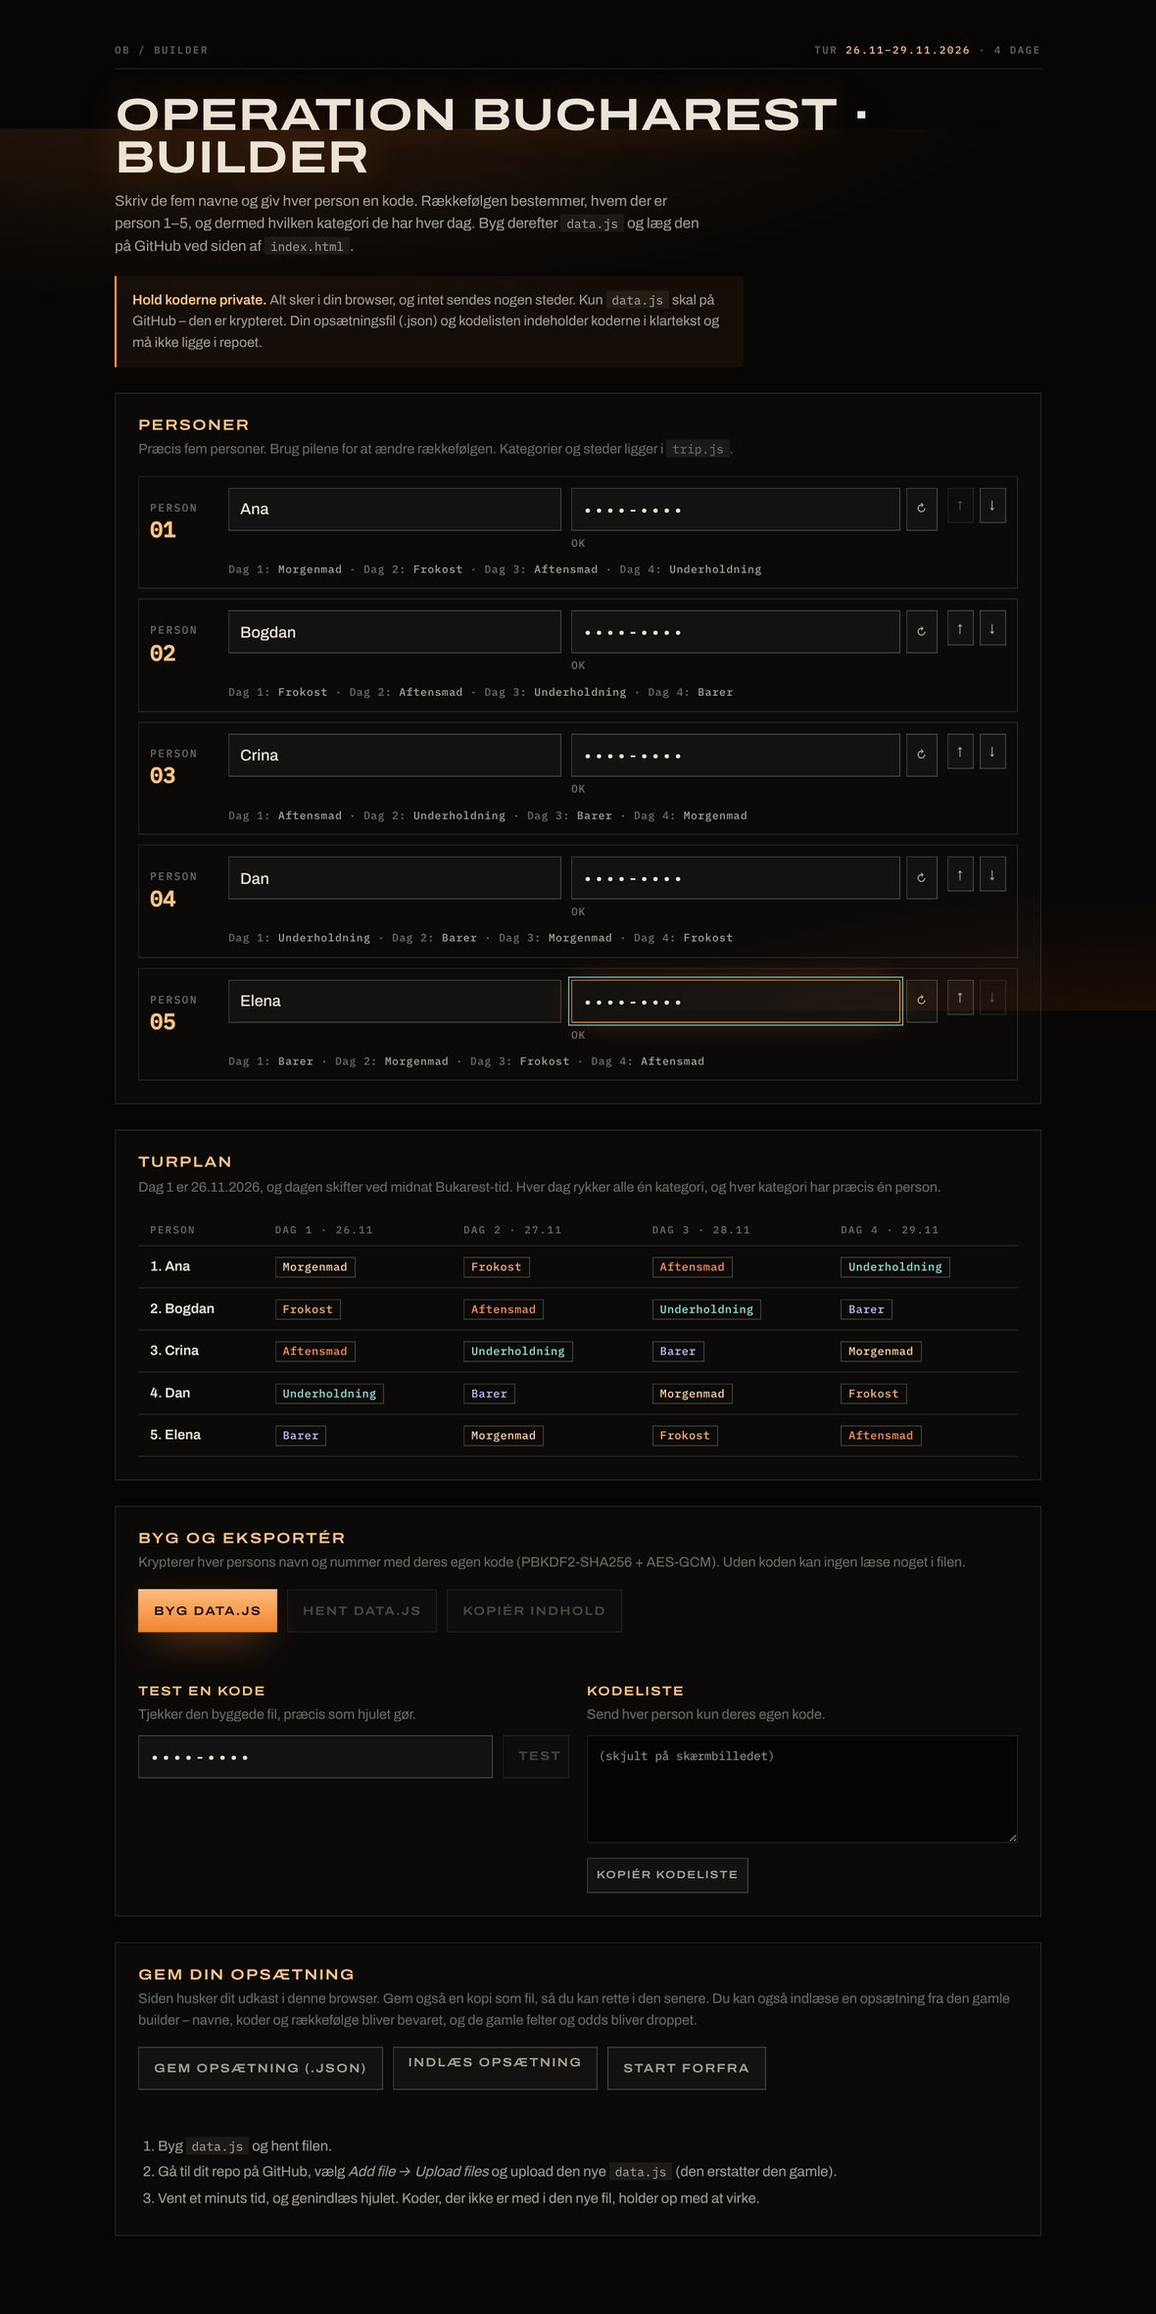
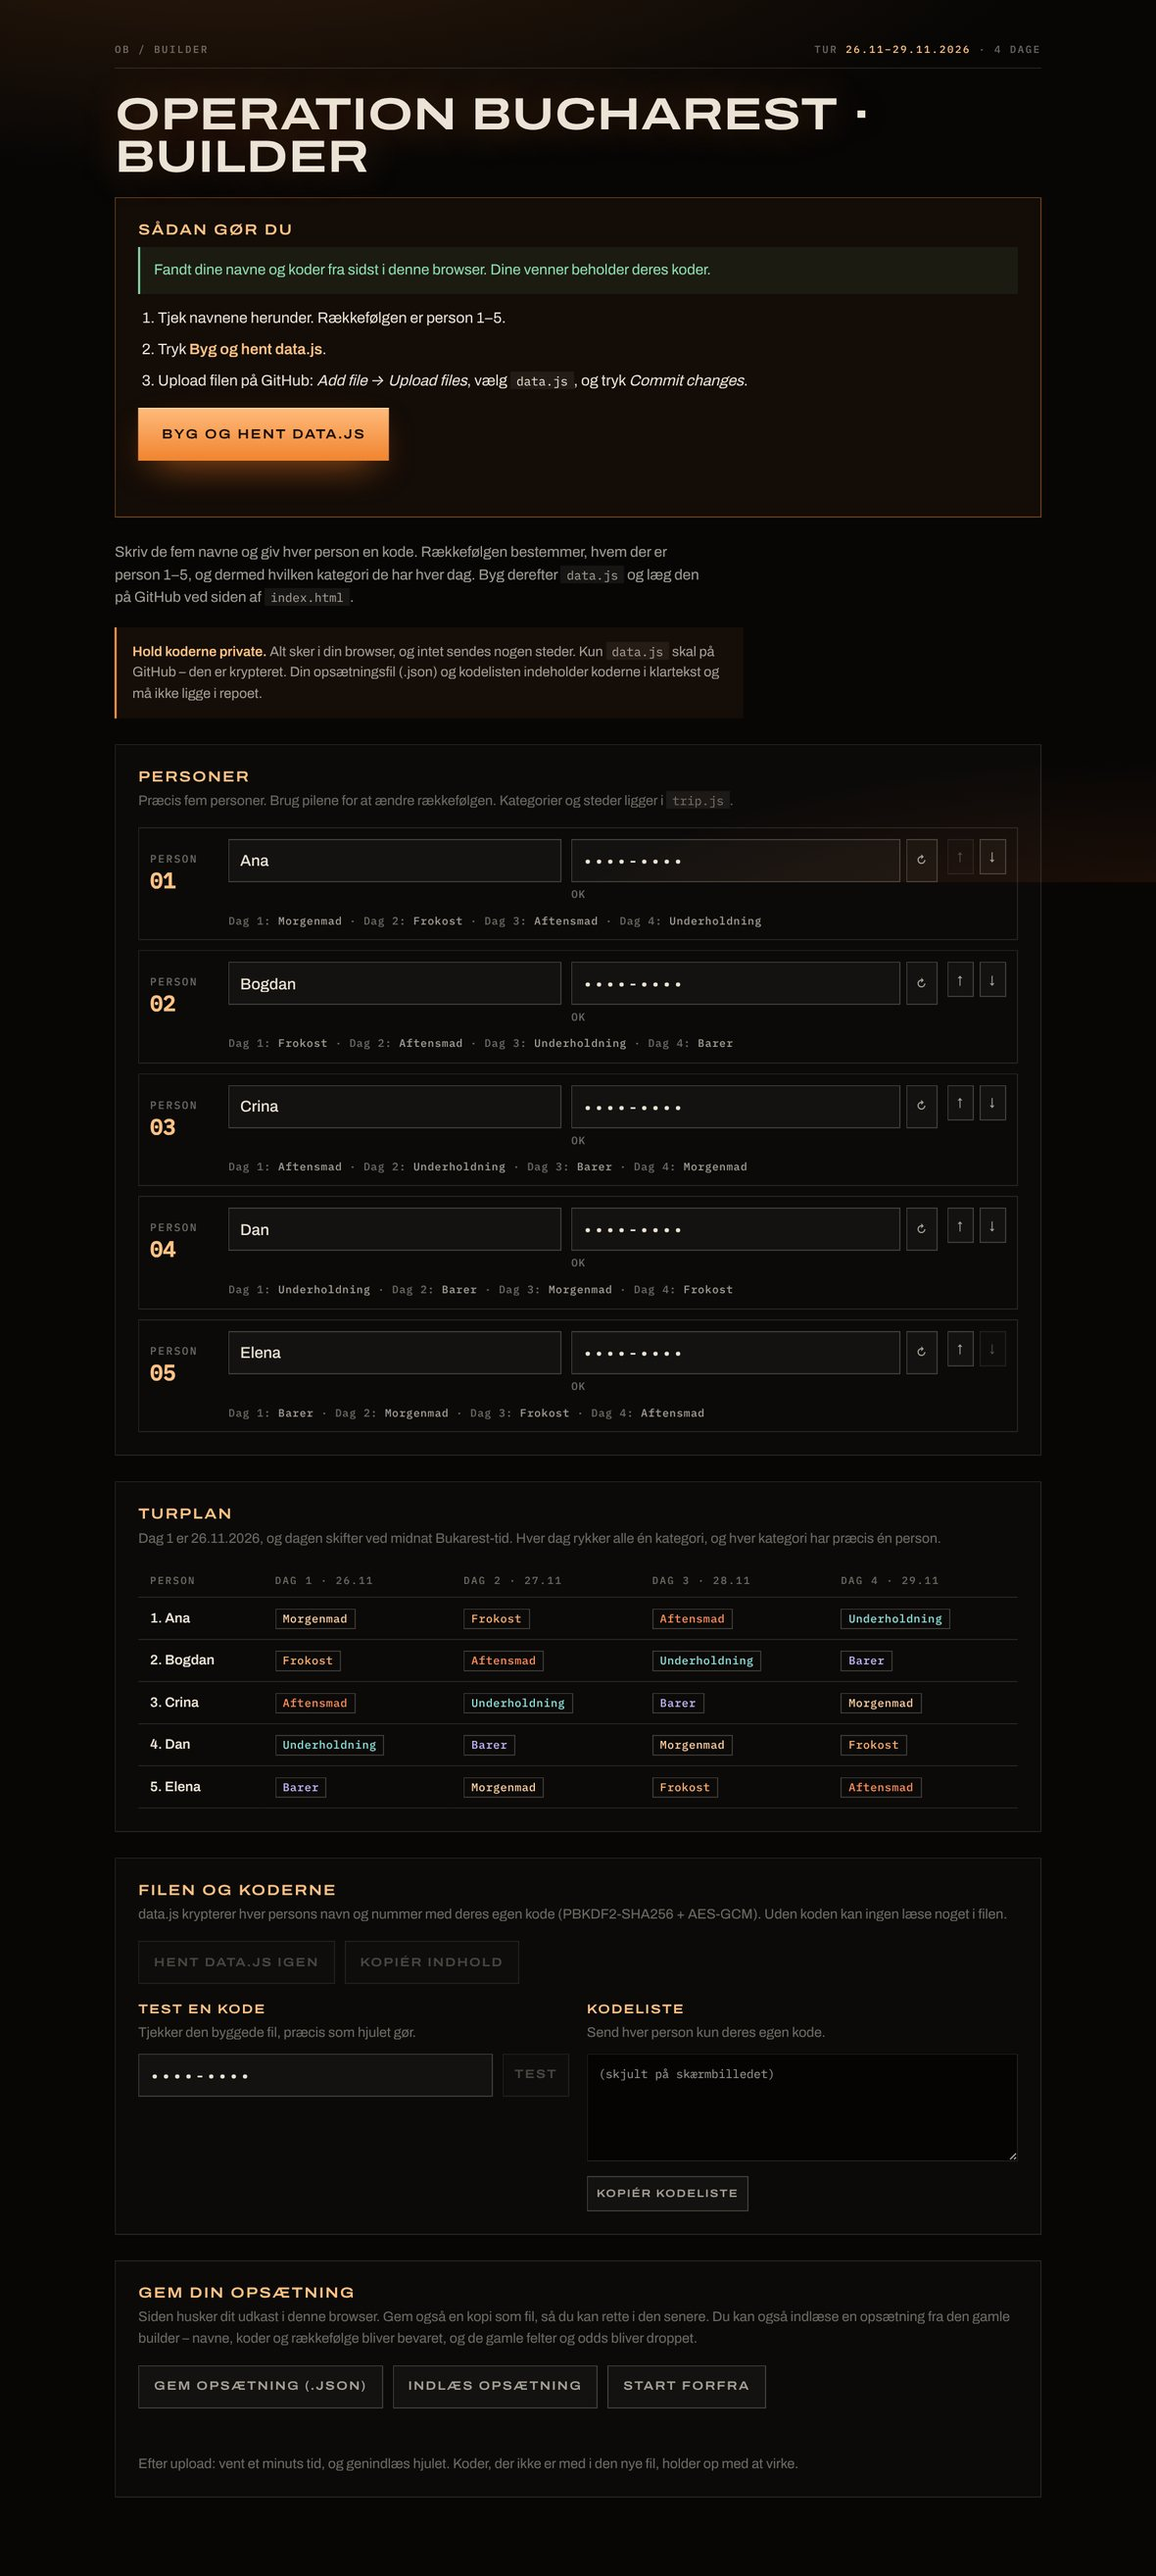
Builder: one-click "Byg og hent data.js" and a clear start box
- New "Sådan gør du" box at the top with three steps
- Says whether names and codes from last time were found in this browser;
  if not, a red warning, and the build button needs a second press so
  nobody gives everyone new codes by accident
- The build button now builds and downloads data.js in one go
- Updated builder screenshot

Claude-Session: https://claude.ai/code/session_01LwMVCugT5aRpNgCrjQDK6n

diff --git a/builder.html b/builder.html
@@ -89,14 +89,37 @@
     ol.steps li { margin: 4px 0; }
     code { background: rgba(235,227,213,.07); padding: 1px 6px; font: 12.5px var(--f-mono); }
     .hidden { display: none; }
+    .start { background: rgba(255,140,50,.05); box-shadow: inset 0 0 0 1px rgba(255,154,61,.45); }
+    .start .steps { font-size: 15.5px; color: var(--bone); }
+    .start .steps li { margin: 8px 0; }
+    .start .steps strong { color: var(--amber-hi); font-weight: 600; }
+    .btn.big { min-height: 54px; padding: 12px 24px; font-size: 13.5px; }
+    #startStatus { margin: 8px 0 4px; padding: 12px 14px; font-size: 15px; }
+    #startStatus.ok { background: rgba(143,224,176,.07); border-left: 2px solid var(--ok); }
+    #startStatus.bad { background: rgba(255,127,97,.08); border-left: 2px solid var(--err); color: var(--bone); }
+    #startStatus.warn { background: rgba(255,154,61,.08); border-left: 2px solid var(--amber); color: var(--bone); }
+    #startStatus strong { color: var(--err); }
   </style>
 </head>
 <body>
 <div class="wrap">
   <div class="bar"><span>OB / Builder</span><span id="tripBar"></span></div>
   <h1>Operation Bucharest · Builder</h1>
-  <p class="lead">Skriv de fem navne og giv hver person en kode. Rækkefølgen bestemmer, hvem der er person 1–5, og dermed hvilken kategori de har hver dag. Byg derefter <code>data.js</code> og læg den på GitHub ved siden af <code>index.html</code>.</p>
+  <section class="card start" id="startCard" style="margin-top:18px">
+    <h2>Sådan gør du</h2>
+    <p class="status" id="startStatus" role="status"></p>
+    <ol class="steps">
+      <li>Tjek navnene herunder. Rækkefølgen er person 1–5.</li>
+      <li>Tryk <strong>Byg og hent data.js</strong>.</li>
+      <li>Upload filen på GitHub: <em>Add file → Upload files</em>, vælg <code>data.js</code>, og tryk <em>Commit changes</em>.</li>
+    </ol>
+    <div class="row" style="margin-top:16px"><button class="btn primary big" id="buildBtn">Byg og hent data.js</button></div>
+    <p class="status" id="buildStatus" role="status"></p>
+  </section>
+
+  <p class="lead" style="margin-top:24px">Skriv de fem navne og giv hver person en kode. Rækkefølgen bestemmer, hvem der er person 1–5, og dermed hvilken kategori de har hver dag. Byg derefter <code>data.js</code> og læg den på GitHub ved siden af <code>index.html</code>.</p>
   <p class="note"><strong>Hold koderne private.</strong> Alt sker i din browser, og intet sendes nogen steder. Kun <code>data.js</code> skal på GitHub – den er krypteret. Din opsætningsfil (.json) og kodelisten indeholder koderne i klartekst og må ikke ligge i repoet.</p>
+
 
   <section class="card">
     <h2>Personer</h2>
@@ -111,14 +134,12 @@
   </section>
 
   <section class="card">
-    <h2>Byg og eksportér</h2>
-    <p class="sub">Krypterer hver persons navn og nummer med deres egen kode (PBKDF2-SHA256 + AES-GCM). Uden koden kan ingen læse noget i filen.</p>
+    <h2>Filen og koderne</h2>
+    <p class="sub">data.js krypterer hver persons navn og nummer med deres egen kode (PBKDF2-SHA256 + AES-GCM). Uden koden kan ingen læse noget i filen.</p>
     <div class="row">
-      <button class="btn primary" id="buildBtn">Byg data.js</button>
-      <button class="btn" id="dlData" disabled>Hent data.js</button>
+      <button class="btn" id="dlData" disabled>Hent data.js igen</button>
       <button class="btn" id="copyData" disabled>Kopiér indhold</button>
     </div>
-    <p class="status" id="buildStatus" role="status"></p>
     <textarea class="out hidden" id="dataOut" readonly aria-label="Indhold af data.js"></textarea>
 
     <div class="grid2" style="margin-top:18px">
@@ -150,11 +171,7 @@
       <button class="btn danger" id="resetBtn">Start forfra</button>
     </div>
     <p class="status" id="setupStatus" role="status"></p>
-    <ol class="steps">
-      <li>Byg <code>data.js</code> og hent filen.</li>
-      <li>Gå til dit repo på GitHub, vælg <em>Add file → Upload files</em> og upload den nye <code>data.js</code> (den erstatter den gamle).</li>
-      <li>Vent et minuts tid, og genindlæs hjulet. Koder, der ikke er med i den nye fil, holder op med at virke.</li>
-    </ol>
+    <p class="sub" style="margin:12px 0 0">Efter upload: vent et minuts tid, og genindlæs hjulet. Koder, der ikke er med i den nye fil, holder op med at virke.</p>
   </section>
 </div>
 
@@ -191,10 +208,11 @@
     return { people, dropped: Math.max(0, list.length - P), old: !Array.isArray(s.people) };
   }
 
-  let state, built = null, loadedNote = '';
+  // source: where the names and codes came from: 'old' (old builder draft), 'saved' (this builder), 'file', 'fresh' (Start forfra), 'none'
+  let state, built = null, loadedNote = '', source = 'none';
   try {
     const m = migrate(JSON.parse(localStorage.getItem(DRAFT_KEY)));
-    if (m) { state = { people: m.people }; if (m.old) loadedNote = `Udkast fra den gamle builder indlæst: navne, koder og rækkefølge er bevaret, felter og odds er droppet${m.dropped ? `, og ${m.dropped} ekstra ${m.dropped === 1 ? 'person' : 'personer'} er fjernet (kun de første fem er med)` : ''}.`; }
+    if (m) { state = { people: m.people }; source = m.old ? 'old' : 'saved'; if (m.old) loadedNote = `Udkast fra den gamle builder indlæst: navne, koder og rækkefølge er bevaret, felter og odds er droppet${m.dropped ? `, og ${m.dropped} ekstra ${m.dropped === 1 ? 'person' : 'personer'} er fjernet (kun de første fem er med)` : ''}.`; }
   } catch (e) {}
   if (!state) state = defaults();
 
@@ -295,10 +313,21 @@
     return crypto.subtle.deriveKey({ name: 'PBKDF2', salt, iterations: iter, hash: 'SHA-256' }, base, { name: 'AES-GCM', length: 256 }, false, [usage]);
   }
 
+  const BUILD_LABEL = 'Byg og hent data.js';
+  let armT = 0;
   $('buildBtn').onclick = async () => {
+    const btn = $('buildBtn');
     if (!window.crypto || !crypto.subtle) { setStatus('buildStatus', 'Din browser tillader ikke kryptering her. Åbn siden via https eller localhost i Chrome, Edge, Firefox eller Safari.', 'bad'); return; }
     if (checkCodes()) { setStatus('buildStatus', 'Kan ikke bygge endnu: ret kodefejlene.', 'bad'); return; }
-    const btn = $('buildBtn'); btn.disabled = true; btn.textContent = 'Bygger…';
+    // No names/codes found from last time: building now would give everyone new codes, so ask twice
+    if (source === 'none' && !btn.dataset.armed) {
+      btn.dataset.armed = '1'; btn.textContent = 'Tryk igen: byg med nye koder';
+      setStatus('buildStatus', 'Pas på: koderne herunder er nye. Dine venners gamle koder holder op med at virke.', 'bad');
+      clearTimeout(armT); armT = setTimeout(() => { delete btn.dataset.armed; btn.textContent = BUILD_LABEL; }, 5000);
+      return;
+    }
+    clearTimeout(armT); delete btn.dataset.armed;
+    btn.disabled = true; btn.textContent = 'Bygger…';
     try {
       const salt = crypto.getRandomValues(new Uint8Array(16));
       const entries = [];
@@ -318,11 +347,24 @@
       built = { data, text: `/* Operation Bucharest – krypterede data (navn + personnummer pr. kode), bygget ${stamp}. Rediger ikke i hånden: brug builder.html. */\nwindow.OB_DATA = ${JSON.stringify(data)};\n` };
       $('dataOut').value = built.text; $('dataOut').classList.remove('hidden');
       $('dlData').disabled = $('copyData').disabled = $('testBtn').disabled = false;
-      setStatus('buildStatus', `Bygget: ${entries.length} koder. Hent filen og upload den til GitHub.`, 'ok');
+      download('data.js', built.text, 'text/javascript');
+      setStatus('buildStatus', `Færdig: data.js med ${entries.length} koder er hentet. Næste: upload den på GitHub (trin 3).`, 'ok');
     } catch (e) {
       setStatus('buildStatus', 'Noget gik galt under bygningen: ' + e.message, 'bad');
-    } finally { btn.disabled = false; btn.textContent = 'Byg data.js'; }
+    } finally { btn.disabled = false; btn.textContent = BUILD_LABEL; }
   };
+
+  function renderStart() {
+    const el = $('startStatus');
+    const msg = {
+      old: ['ok', 'Fandt dine navne og koder fra sidst i denne browser. Dine venner beholder deres koder.'],
+      saved: ['ok', 'Fandt dine gemte navne og koder i denne browser.'],
+      file: ['ok', 'Navne og koder er indlæst fra din fil.'],
+      fresh: ['warn', 'Alle har fået nye koder. Husk at sende hver person deres nye kode (se Kodeliste længere nede).'],
+      none: ['bad', '<strong>Fandt ingen navne og koder fra sidst i denne browser.</strong> Åbn siden i den browser, du brugte sidst. Eller tryk «Indlæs opsætning» nederst og vælg din .json-fil. Bygger du med koderne herunder, får alle nye koder.']
+    }[source];
+    el.innerHTML = msg[1]; el.className = 'status ' + msg[0];
+  }
 
   function download(fname, text, type) {
     const a = document.createElement('a');
@@ -364,7 +406,7 @@
     try {
       const m = migrate(JSON.parse(await f.text()));
       if (!m) throw new Error('forkert format');
-      state = { people: m.people };
+      state = { people: m.people }; source = 'file'; renderStart();
       render(); persist();
       setStatus('setupStatus', m.old
         ? `Indlæst fra den gamle builder: navne, koder og rækkefølge er bevaret, felter og odds er droppet${m.dropped ? ` (${m.dropped} ekstra fjernet – kun de første fem er med)` : ''}.`
@@ -379,12 +421,13 @@
       return;
     }
     delete this.dataset.armed; this.textContent = 'Start forfra';
-    state = defaults(); render(); persist();
+    state = defaults(); source = 'fresh'; renderStart(); render(); persist();
     setStatus('setupStatus', 'Nulstillet med nye koder.', 'ok');
   };
   document.querySelector('label[for="loadSetup"]').addEventListener('keydown', e => { if (e.key === 'Enter' || e.key === ' ') { e.preventDefault(); $('loadSetup').click(); } });
 
   render();
+  renderStart();
   if (loadedNote) { setStatus('setupStatus', loadedNote, 'ok'); persist(); }
 }
 </script>
